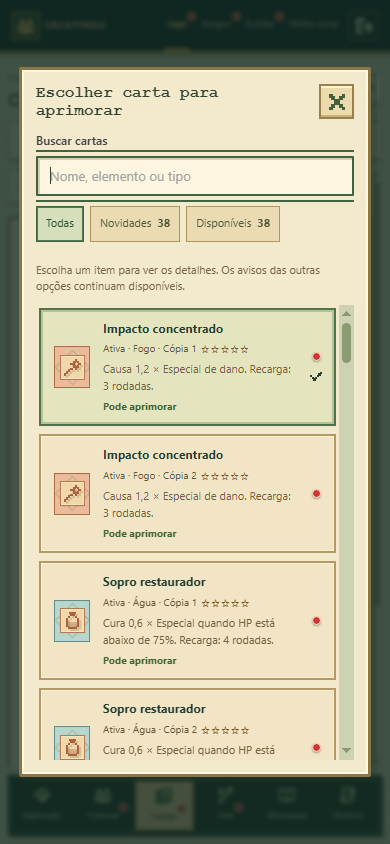
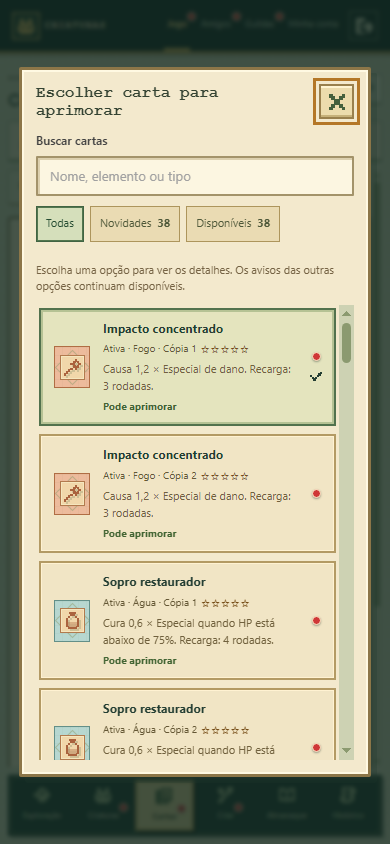
docs(release): Present map selection without automatic keyboard
Update the card and map previews and describe intentional search focus.

diff --git a/README.md b/README.md
@@ -56,7 +56,7 @@ Escolha sua criatura, prepare o deck e decida para onde explorar. Os encontros a
 | **Amigos e guildas** | Amigos, conversa privada e guildas de seis jogadores com quatro cargos e criaturas de apoio. |
 | **Recuperação** | Três restauros instantâneos diários por conta e ajuda manual para sua criatura voltar à aventura. |
 | **Progresso ao retornar** | O servidor calcula o avanço da exploração durante sua ausência, dentro dos limites do jogo. |
-| **Avisos visuais** | Bolinhas vermelhas orientam até convites, espólios, invocações e aprimoramentos. Os seletores têm busca, filtros e prévias das cartas. |
+| **Avisos visuais** | Bolinhas vermelhas orientam até convites, espólios, invocações e aprimoramentos. Os seletores de cartas e mapas têm busca e filtros, sem abrir o teclado automaticamente. |
 
 <p align="center"><strong>37 espécies · 19 cartas · 10 regiões</strong><br /><sub>Conteúdo atual da alfa, sujeito a evolução durante o desenvolvimento.</sub></p>
 
@@ -83,9 +83,15 @@ Escolha sua criatura, prepare o deck e decida para onde explorar. Os encontros a
 
 <img src="./assets/screenshots/icones.png" width="1150" alt="Prévia dos ícones em pixel art: poções, bandagens, efeitos de cartas, cargos de guilda e materiais com suas cores." />
 
-**Escolha suas cartas com busca, filtros e avisos por cópia.**
+**Escolha cartas e mapas com busca, filtros e informações de cada opção.**
 
-<p align="center"><img src="./assets/screenshots/seletor-cartas.png" width="390" alt="Seletor de cartas no celular, com ilustrações, elementos, estrelas, descrições e bolinhas vermelhas indicando novas oportunidades de aprimoramento." /></p>
+<table>
+  <tr><th>Cartas e aprimoramentos</th><th>Mapas e destinos</th></tr>
+  <tr>
+    <td><img src="./assets/screenshots/seletor-cartas.png" width="390" alt="Seletor de cartas no celular, com ilustrações, elementos, estrelas, descrições e avisos de aprimoramento por cópia." /></td>
+    <td><img src="./assets/screenshots/seletor-mapas.png" width="390" alt="Seletor de mapas no celular, com elemento, faixa de níveis, filtro de destinos disponíveis e requisitos dos mapas bloqueados." /></td>
+  </tr>
+</table>
 
 ## Atualizações do aplicativo
 
